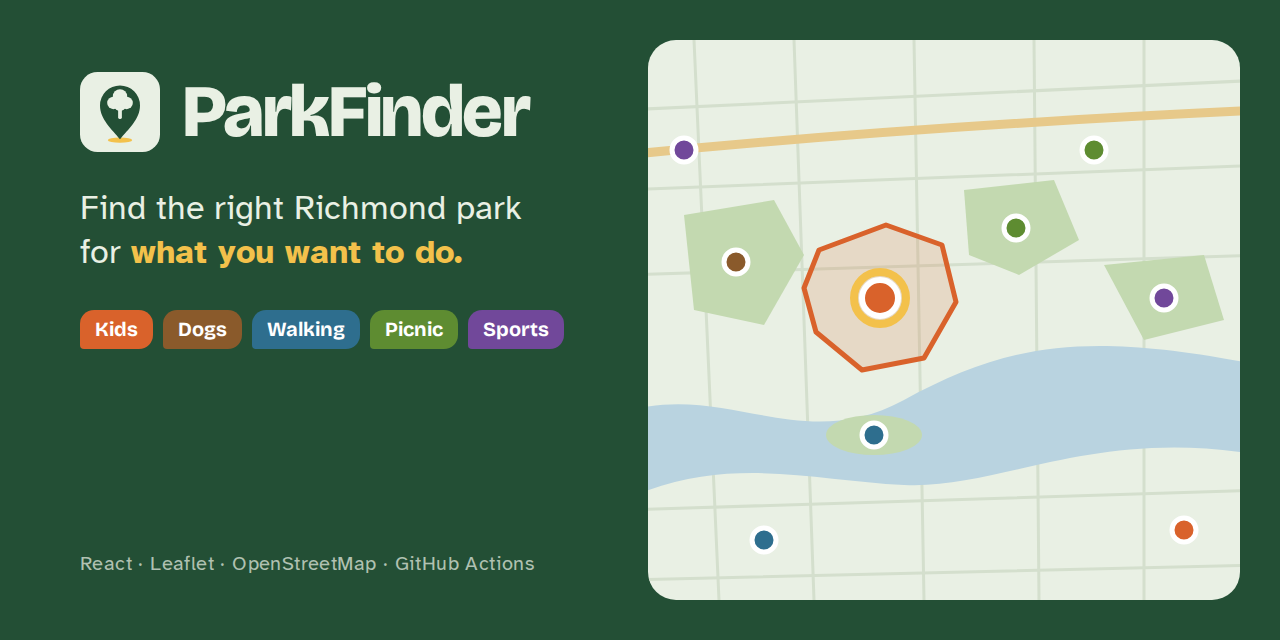
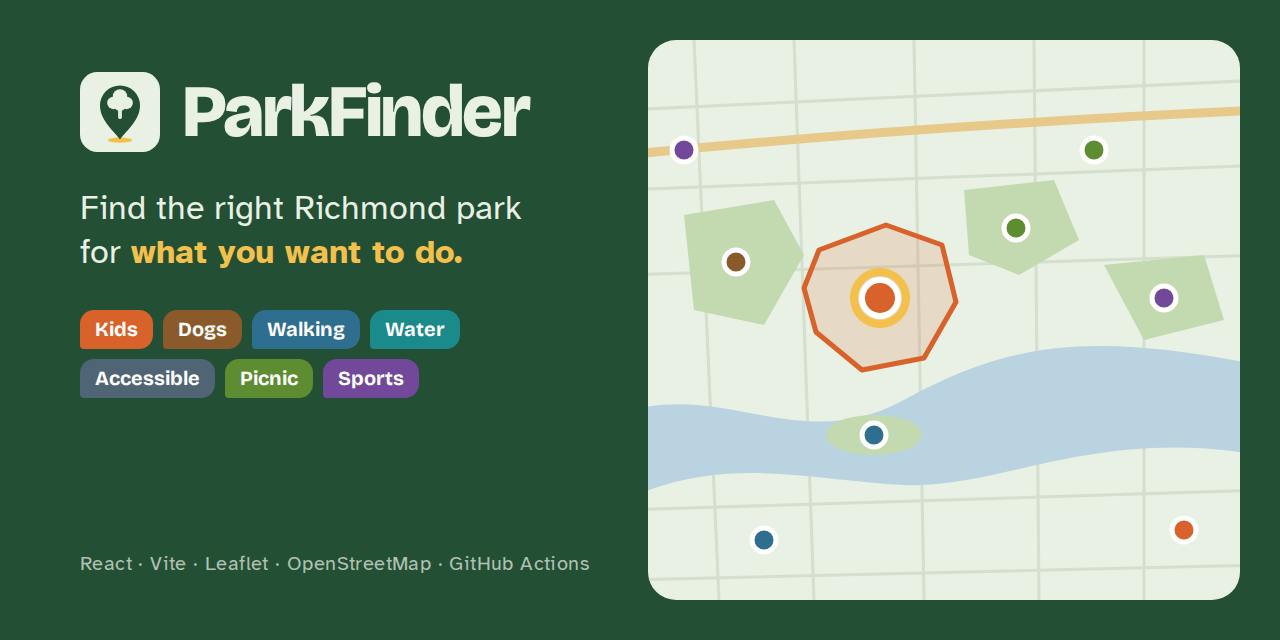
Update Park Finder project card

Changed region(s): [[0.0625, 0.4688, 0.4375, 0.625], [0.125, 0.875, 0.4688, 0.9062]]

diff --git a/src/App.js b/src/App.js
@@ -103,8 +103,8 @@ const projects = [
   },
   {
     title: 'Park Finder',
-    description: 'A React app for finding parks by what you need them for: kids, dogs, or a good walk.',
-    tags: ['React', 'JavaScript', 'CSS'],
+    description: 'Find a Richmond-area park by what you want to do: playgrounds, dog parks, trails, water, accessible paths, picnics, or sports. Covers 329 parks with real boundaries on an interactive map, open-now hours, photos, favorites, and shareable links. A GitHub Action rebuilds the park data from OpenStreetMap every week, and every push is linted, tested (28 tests), and deployed. Scores 100 for accessibility on Lighthouse.',
+    tags: ['React', 'Vite', 'Leaflet', 'OpenStreetMap', 'Vitest', 'GitHub Actions'],
     repo: 'https://github.com/antdia4309/park-finder',
     live: 'https://antdia4309.github.io/park-finder/',
     image: `${process.env.PUBLIC_URL}/parkfinder.png`,
